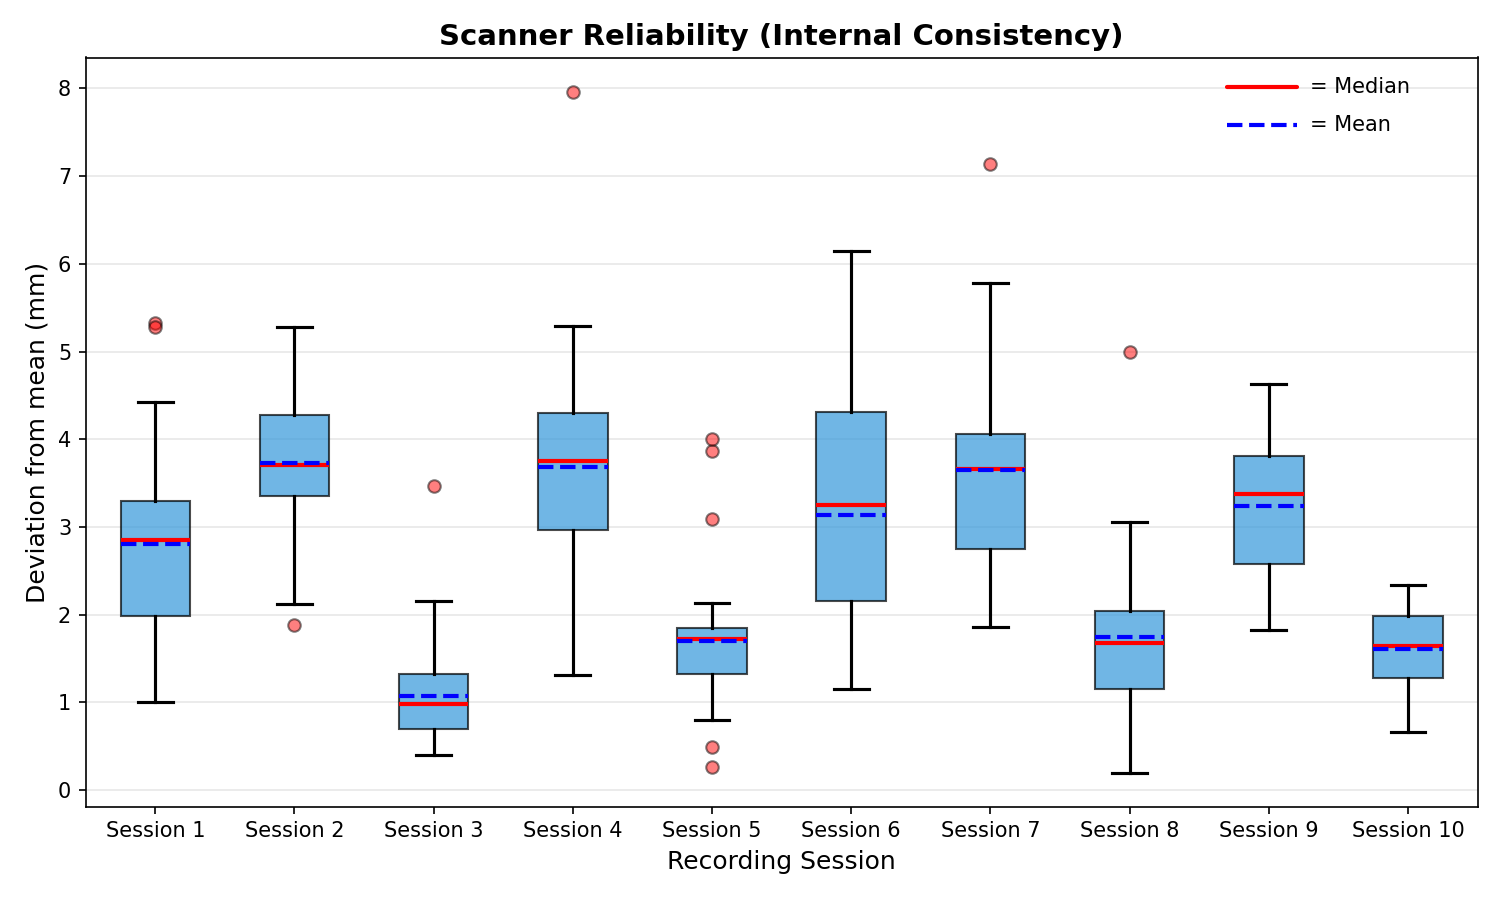
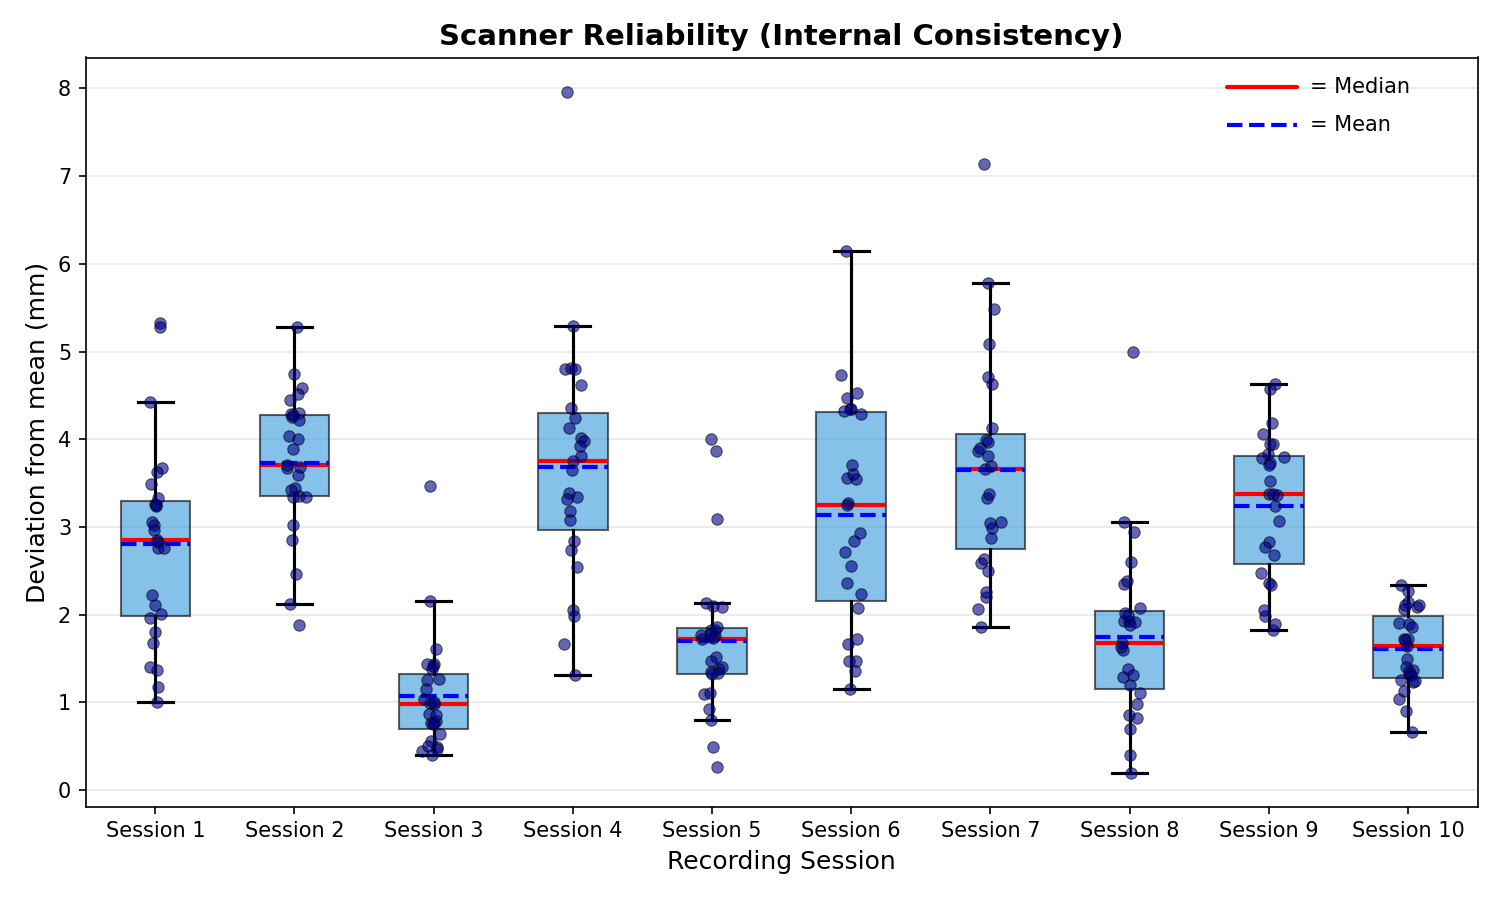
chore: clean up code structure and remove redundant changes

diff --git a/scripts/Pipeline_analysis_compare_ground_truth.py b/scripts/Pipeline_analysis_compare_ground_truth.py
@@ -377,15 +377,15 @@ def main():
     # DECIDE WHICH POSITIONS TO USE FOR PLOTTING
     # Priority: 1) Standard montage, 2) Scanner positions
     if standard_montage:
-        print("\n Using standard montage positions for head map visualization")
+        print("\nUsing standard montage positions for head map visualization")
         plot_positions = standard_montage
     else:
-        print("\n Standard montage not found, using scanner positions")
+        print("\nStandard montage not found, using scanner positions")
         plot_positions = s_mean
 
     # --- GENERATE PLOTS ---
 
-    # Plot 1: Scanner Reliability BOX PLOT
+    # Plot 1: Scanner Reliability BOX PLOT with individual points
     fig, ax = plt.subplots(figsize=(10, 6))
     
     # Create clean labels
@@ -394,14 +394,20 @@ def main():
     s_clean_labels = [s_label_map[name] for name in s_sorted_names]
     s_data = [s_distributions[name] for name in s_sorted_names]
     
+    # Create box plot without showing fliers (outliers will be shown as points)
     bp = ax.boxplot(s_data, labels=s_clean_labels, patch_artist=True,
-                    showmeans=True, meanline=True,
-                    boxprops=dict(facecolor='#3498db', alpha=0.7),
+                    showmeans=True, meanline=True, showfliers=False,
+                    boxprops=dict(facecolor='#3498db', alpha=0.6),
                     medianprops=dict(color='red', linewidth=2),
                     meanprops=dict(color='blue', linewidth=2, linestyle='--'),
                     whiskerprops=dict(linewidth=1.5),
-                    capprops=dict(linewidth=1.5),
-                    flierprops=dict(marker='o', markerfacecolor='red', markersize=6, alpha=0.5))
+                    capprops=dict(linewidth=1.5))
+    
+    # Overlay all individual data points
+    for i, (name, data) in enumerate(zip(s_sorted_names, s_data), start=1):
+        # Add small random jitter to x position for visibility
+        x_pos = np.random.normal(i, 0.04, size=len(data))
+        ax.scatter(x_pos, data, alpha=0.6, s=30, color='darkblue', edgecolors='black', linewidth=0.5, zorder=3)
     
     ax.set_title("Scanner Reliability (Internal Consistency)", fontsize=14, fontweight='bold')
     ax.set_ylabel("Deviation from mean (mm)", fontsize=12)
@@ -422,9 +428,9 @@ def main():
     plt.tight_layout()
     plt.savefig(os.path.join(OUTPUT_DIR, 'scanner_reliability_boxplot.png'), dpi=150)
     plt.close()
-    print(" Scanner reliability box plot saved")
+    print("Scanner reliability box plot saved")
 
-    # Plot 2: Pipeline Reliability BOX PLOT
+    # Plot 2: Pipeline Reliability BOX PLOT with individual points
     fig, ax = plt.subplots(figsize=(12, 6))
     
     # Create clean labels
@@ -433,14 +439,20 @@ def main():
     p_clean_labels = [p_label_map[name] for name in p_sorted_names]
     p_data = [p_distributions[name] for name in p_sorted_names]
     
+    # Create box plot without showing fliers (outliers will be shown as points)
     bp = ax.boxplot(p_data, labels=p_clean_labels, patch_artist=True,
-                    showmeans=True, meanline=True,
-                    boxprops=dict(facecolor='#e74c3c', alpha=0.7),
+                    showmeans=True, meanline=True, showfliers=False,
+                    boxprops=dict(facecolor='#e74c3c', alpha=0.6),
                     medianprops=dict(color='darkred', linewidth=2),
                     meanprops=dict(color='blue', linewidth=2, linestyle='--'),
                     whiskerprops=dict(linewidth=1.5),
-                    capprops=dict(linewidth=1.5),
-                    flierprops=dict(marker='o', markerfacecolor='darkred', markersize=6, alpha=0.5))
+                    capprops=dict(linewidth=1.5))
+    
+    # Overlay all individual data points
+    for i, (name, data) in enumerate(zip(p_sorted_names, p_data), start=1):
+        # Add small random jitter to x position for visibility
+        x_pos = np.random.normal(i, 0.04, size=len(data))
+        ax.scatter(x_pos, data, alpha=0.6, s=30, color='darkred', edgecolors='black', linewidth=0.5, zorder=3)
     
     ax.set_title("Pipeline Reliability (Internal Consistency)", fontsize=14, fontweight='bold')
     ax.set_ylabel("Deviation from mean (mm)", fontsize=12)
@@ -463,7 +475,7 @@ def main():
     plt.close()
     print("Pipeline reliability box plot saved")
 
-    # Plot 3: Method Comparison - Combined BOX PLOT
+    # Plot 3A: Method Comparison - PER ELECTRODE (full distribution)
     fig, ax = plt.subplots(figsize=(10, 6))
     
     all_scanner_errors = []
@@ -474,28 +486,34 @@ def main():
     for dist_list in p_distributions.values():
         all_pipeline_errors.extend(dist_list)
     
-
-    
+    # Create box plot without showing fliers
     bp = ax.boxplot([all_scanner_errors, all_pipeline_errors], 
                     labels=['Scanner (Digitizer)', 'Pipeline (Video)'],
                     patch_artist=True,
-                    showmeans=True, meanline=True,
-                    boxprops=dict(alpha=0.7),
+                    showmeans=True, meanline=True, showfliers=False,
+                    boxprops=dict(alpha=0.6),
                     medianprops=dict(color='red', linewidth=2),
                     meanprops=dict(color='blue', linewidth=2, linestyle='--'),
                     whiskerprops=dict(linewidth=1.5),
-                    capprops=dict(linewidth=1.5),
-                    flierprops=dict(marker='o', markersize=6, alpha=0.5))
+                    capprops=dict(linewidth=1.5))
     
     bp['boxes'][0].set_facecolor('#3498db')
     bp['boxes'][1].set_facecolor('#e74c3c')
     
+    # Overlay individual electrode points
+    x_pos_scanner = np.random.normal(1, 0.04, size=len(all_scanner_errors))
+    ax.scatter(x_pos_scanner, all_scanner_errors, alpha=0.4, s=20, 
+               color='darkblue', edgecolors='black', linewidth=0.3, zorder=3)
+    
+    x_pos_pipeline = np.random.normal(2, 0.04, size=len(all_pipeline_errors))
+    ax.scatter(x_pos_pipeline, all_pipeline_errors, alpha=0.4, s=20, 
+               color='darkred', edgecolors='black', linewidth=0.3, zorder=3)
+    
     ax.set_ylabel('Deviation from Mean (mm)', fontsize=12)
-    ax.set_title('Repeatability Comparison: Scanner vs Pipeline', fontsize=14, fontweight='bold')
+    ax.set_title('Repeatability Comparison: Per-Electrode Distribution', fontsize=14, fontweight='bold')
     ax.grid(axis='y', alpha=0.3)
     
-
-    # Add visual line annotation with symbols (left side)
+    # Add visual line annotation
     ax.plot([0.02, 0.07], [0.96, 0.96], transform=ax.transAxes, 
             color='red', linewidth=2, solid_capstyle='round')
     ax.text(0.08, 0.96, '= Median', transform=ax.transAxes, 
@@ -507,22 +525,77 @@ def main():
             fontsize=10, verticalalignment='center')
     
     plt.tight_layout()
-    plt.savefig(os.path.join(OUTPUT_DIR, 'repeatability_comparison.png'), dpi=150)
+    plt.savefig(os.path.join(OUTPUT_DIR, 'repeatability_comparison_per_electrode.png'), dpi=150)
     plt.close()
-    print(" Repeatability comparison saved")
+    print("Repeatability comparison (per-electrode) saved")
+    
+    # Plot 3B: Method Comparison - PER RECORDING (recording-level consistency)
+    fig, ax = plt.subplots(figsize=(10, 6))
+    
+    # Calculate mean error per recording
+    scanner_recording_means = []
+    for dist_list in s_distributions.values():
+        scanner_recording_means.append(np.mean(dist_list))
+    
+    pipeline_recording_means = []
+    for dist_list in p_distributions.values():
+        pipeline_recording_means.append(np.mean(dist_list))
+    
+    # Create box plot without showing fliers
+    bp = ax.boxplot([scanner_recording_means, pipeline_recording_means], 
+                    labels=['Scanner (Digitizer)', 'Pipeline (Video)'],
+                    patch_artist=True,
+                    showmeans=True, meanline=True, showfliers=False,
+                    boxprops=dict(alpha=0.6),
+                    medianprops=dict(color='red', linewidth=2),
+                    meanprops=dict(color='blue', linewidth=2, linestyle='--'),
+                    whiskerprops=dict(linewidth=1.5),
+                    capprops=dict(linewidth=1.5))
+    
+    bp['boxes'][0].set_facecolor('#3498db')
+    bp['boxes'][1].set_facecolor('#e74c3c')
+    
+    # Overlay individual recording points (10 points each)
+    x_pos_scanner = np.random.normal(1, 0.04, size=len(scanner_recording_means))
+    ax.scatter(x_pos_scanner, scanner_recording_means, alpha=0.6, s=60, 
+               color='darkblue', edgecolors='black', linewidth=0.5, zorder=3)
+    
+    x_pos_pipeline = np.random.normal(2, 0.04, size=len(pipeline_recording_means))
+    ax.scatter(x_pos_pipeline, pipeline_recording_means, alpha=0.6, s=60, 
+               color='darkred', edgecolors='black', linewidth=0.5, zorder=3)
+    
+    ax.set_ylabel('Average Deviation per Recording (mm)', fontsize=12)
+    ax.set_title('Repeatability Comparison: Per-Recording Consistency', fontsize=14, fontweight='bold')
+    ax.grid(axis='y', alpha=0.3)
+    
+    # Add visual line annotation
+    ax.plot([0.02, 0.07], [0.96, 0.96], transform=ax.transAxes, 
+            color='red', linewidth=2, solid_capstyle='round')
+    ax.text(0.08, 0.96, '= Median', transform=ax.transAxes, 
+            fontsize=10, verticalalignment='center')
+    
+    ax.plot([0.02, 0.07], [0.91, 0.91], transform=ax.transAxes, 
+            color='blue', linewidth=2, linestyle='--', solid_capstyle='round')
+    ax.text(0.08, 0.91, '= Mean', transform=ax.transAxes, 
+            fontsize=10, verticalalignment='center')
+    
+    plt.tight_layout()
+    plt.savefig(os.path.join(OUTPUT_DIR, 'repeatability_comparison_per_recording.png'), dpi=150)
+    plt.close()
+    print("✓ Repeatability comparison (per-recording) saved")
 
     # Plot 4: Accuracy Head Map (use standard montage or scanner positions)
     plot_top_view_head_map(acc_errors, plot_positions, OUTPUT_DIR, 
                            title="Inter-Method Accuracy (Pipeline Mean vs Scanner Mean)", 
                            filename="accuracy_head_map.png")
-    print(" Accuracy head map saved")
+    print("Accuracy head map saved")
 
     # Plot 5: Pipeline Variability Head Map (use standard montage or scanner positions)
     p_vars = {k: v['mean_distance'] for k, v in p_variability.items() if k not in LANDMARKS}
     plot_top_view_head_map(p_vars, plot_positions, OUTPUT_DIR, 
                            title="Pipeline Internal Variability", 
                            filename="pipeline_variability_map.png")
-    print(" Pipeline variability map saved")
+    print("Pipeline variability map saved")
 
     # Plot 6: Scanner Variability Head Map (use standard montage or scanner positions)
     s_vars = {k: v['mean_distance'] for k, v in s_variability.items() if k not in LANDMARKS}
@@ -530,10 +603,9 @@ def main():
                            title="Scanner Internal Variability", 
                            filename="scanner_variability_map.png",
                            vmax=5)
-    print(" Scanner variability map saved")
+    print("Scanner variability map saved")
 
     # Print numerical summary
-
     print("ERROR CALCULATION SUMMARY")
     
     print("\n1. SCANNER REPEATABILITY (Internal Consistency)")
